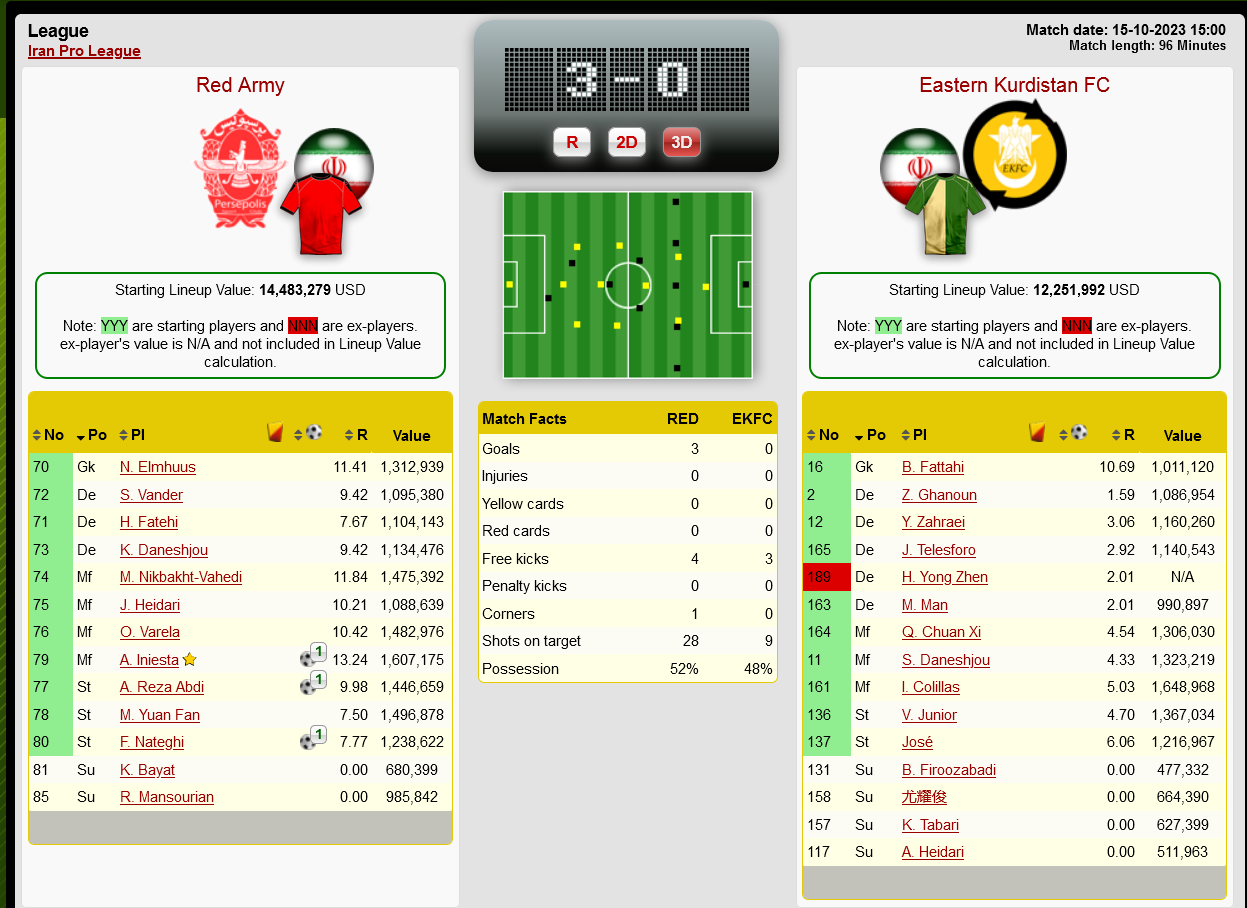
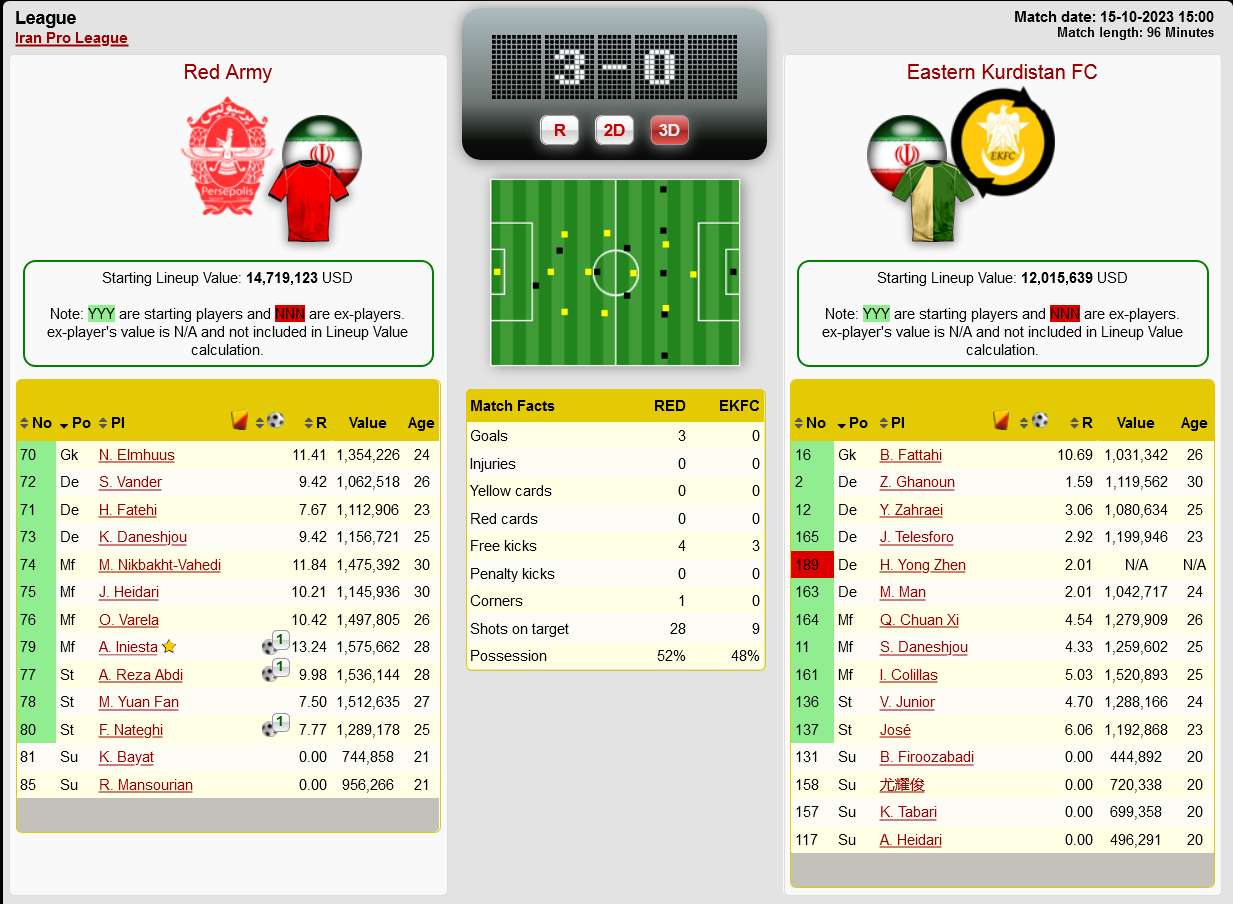
Add players' age to the lineup (#11)
Add players' age to the lineup

Changed region(s): [[0.0, 0.0, 1.0, 1.0]]

diff --git a/index.js b/index.js
@@ -1,7 +1,7 @@
 // ==UserScript==
 // @name         MZ Player Values
 // @namespace    http://tampermonkey.net/
-// @version      0.16
+// @version      0.17
 // @description  Add a table to show squad value in squad summary tab
 // @author       z7z
 // @license      MIT
@@ -508,6 +508,7 @@
                 explayer: !teamPlayerIDs.includes(pid),
                 starting: order < 12,
                 value: teamPlayers.find((p) => p.id === pid)?.value ?? 0,
+                age: teamPlayers.find((p) => p.id === pid)?.age,
             };
 
             const shirtNumber = playerNode.querySelector("td");
@@ -521,6 +522,10 @@
             const value = document.createElement("td");
             value.innerText= `${playerInfo.value ? formatBigNumber(playerInfo.value, ',') : 'N/A'}`;
             playerNode.appendChild(value);
+
+            const age = document.createElement("td");
+            age.innerText= `${playerInfo.age ?? 'N/A'}`;
+            playerNode.appendChild(age);
 
             lineup.push(playerInfo);
         }
@@ -547,6 +552,13 @@
                 valueHeader.title = `Player Value (in ${currency})`;
                 team.querySelector("table thead tr:nth-child(2)").appendChild(valueHeader);
                 team.querySelector("table tfoot tr td").colSpan += 1;
+
+                const ageHeader = document.createElement("td");
+                ageHeader.innerText= `Age`;
+                ageHeader.title = `Player Age`;
+                team.querySelector("table thead tr:nth-child(2)").appendChild(ageHeader);
+                team.querySelector("table tfoot tr td").colSpan += 1;
+                team.querySelector("table thead tr td").colSpan += 1;
 
                 const lineupValue = getLineupPlayers(team, players)
                 .filter((player) => player.starting && !player.explayer)
